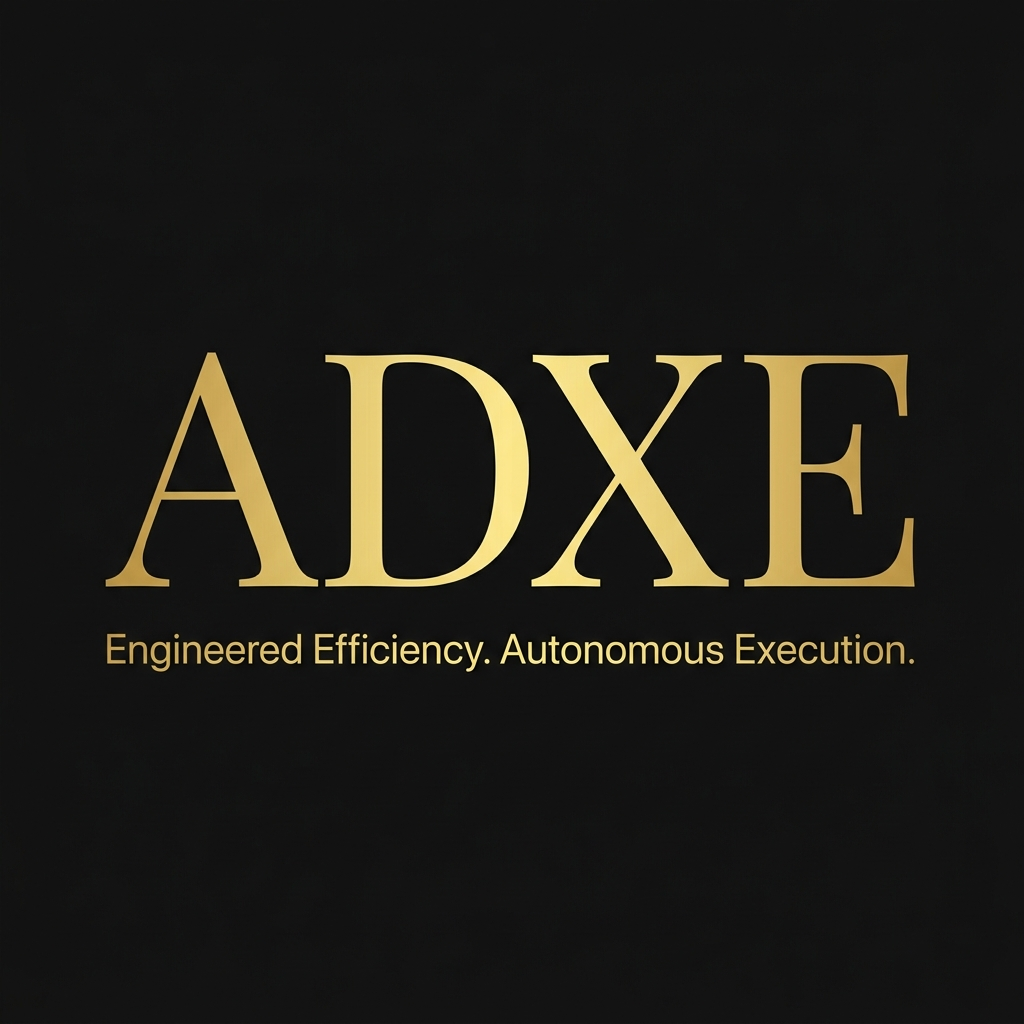
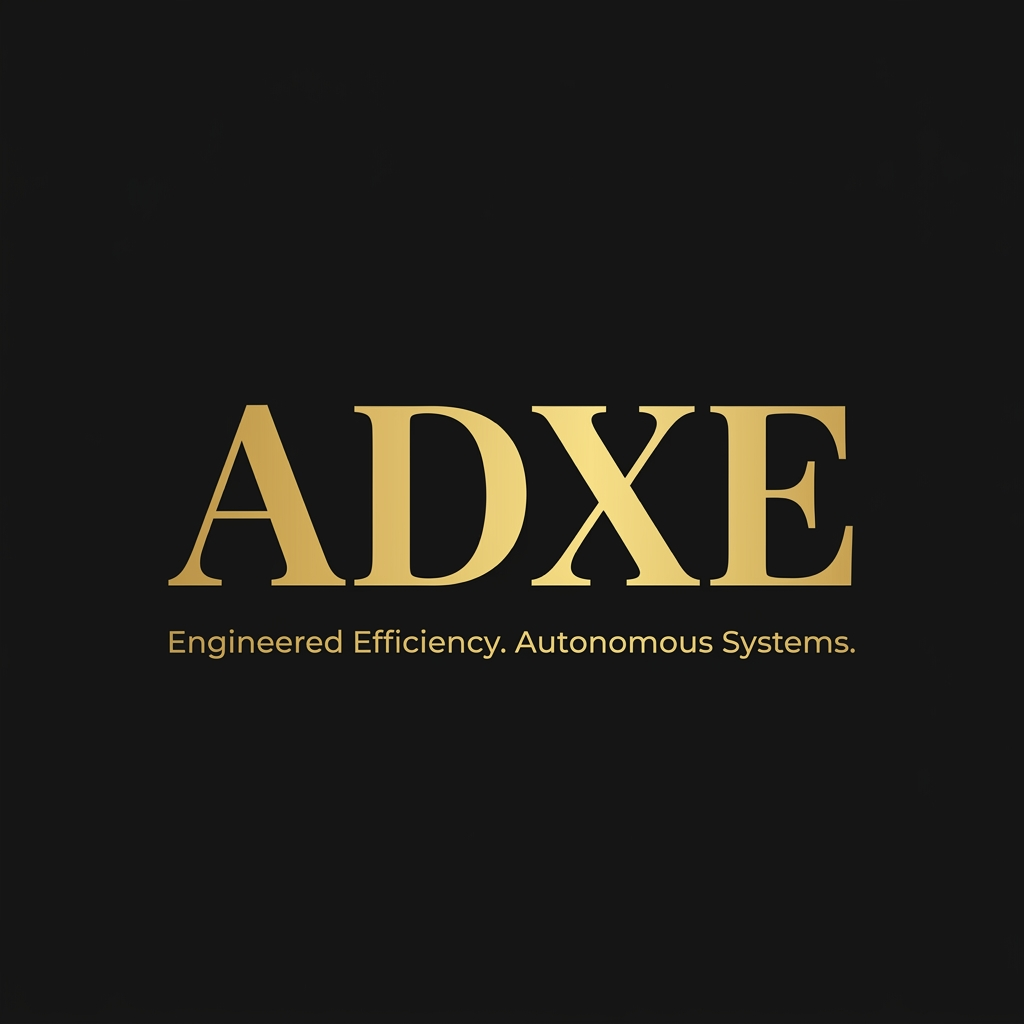
style: update tagline to 'Autonomous Systems' in Hero and social preview

Changed region(s): [[0.0938, 0.3438, 0.9062, 0.6562], [0.5312, 0.5312, 0.5625, 0.5625]]

diff --git a/index-new.html b/index-new.html
@@ -7,11 +7,11 @@
 <!-- Open Graph / Social Media -->
 <meta property="og:type" content="website" />
 <meta property="og:url" content="https://adxecorp.com/" />
-<meta property="og:title" content="Engineered Efficiency. Autonomous Execution." />
+<meta property="og:title" content="Engineered Efficiency. Autonomous Systems." />
 <meta property="og:description" content="ADXE — Applied Design & Execution. Production-grade AI systems and autonomous infrastructure built for scale." />
 <meta property="og:image" content="/og-image.png" />
 <meta name="twitter:card" content="summary_large_image" />
-<meta name="twitter:title" content="Engineered Efficiency. Autonomous Execution." />
+<meta name="twitter:title" content="Engineered Efficiency. Autonomous Systems." />
 <meta name="twitter:description" content="ADXE — Applied Design & Execution. Production-grade AI systems and autonomous infrastructure built for scale." />
 <meta name="twitter:image" content="/og-image.png" />
 <style>
@@ -691,7 +691,7 @@
 
   <div class="hero-headline-block">
     <h1>Applied Design<br>& Execution</h1>
-    <p class="hero-h1-right">Engineered Efficiency<br><span style="font-size: clamp(1.8rem, 3.5vw, 3.2rem); color: var(--text-secondary); display: block; margin-top: 0.4rem;">Autonomous Execution</span></p>
+    <p class="hero-h1-right">Engineered Efficiency<br><span style="font-size: clamp(1.8rem, 3.5vw, 3.2rem); color: var(--text-secondary); display: block; margin-top: 0.4rem;">Autonomous Systems</span></p>
   </div>
 
   <p class="hero-sub">We design, build, and deliver custom AI-driven systems that automate workflows, enrich data, and drive business efficiency. Engineered on purpose-built infrastructure for reliability, security, and scale.</p>
